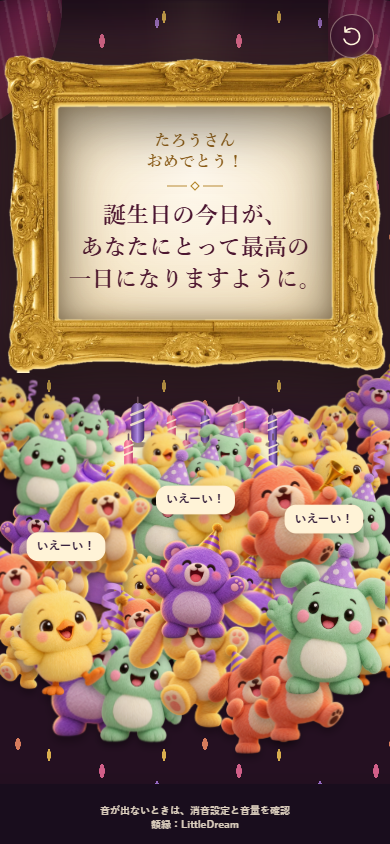
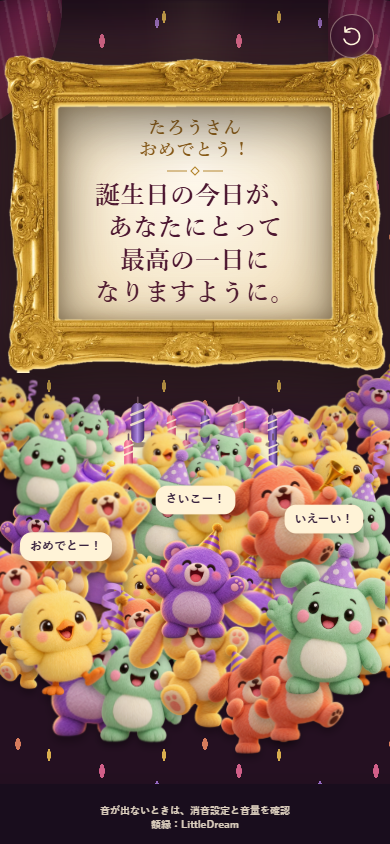
Make framed celebration wishes easier to read

diff --git a/dist/app.js b/dist/app.js
@@ -166,27 +166,29 @@ function completionMessage(name, template = CELEBRATION_TEMPLATE) {
 }
 function fitCelebrationMessage() {
   const el = ui['celebration-message'];
-  if (!el || el.offsetParent === null) return;
-  const MAX = 34, MIN = 15, LINE = 1.4;
-  const THREE_LINE_LENGTH = 29, TWO_LINE_READABLE_SIZE = 20;
-  el.style.lineHeight = String(LINE);
-  const fits = (size, lines) => {
-    el.style.fontSize = `${size}px`;
-    return el.scrollHeight <= Math.ceil(size * LINE * lines) + 1;
-  };
-  const largestFit = lines => {
-    let size = MAX;
-    while (size >= MIN && !fits(size, lines)) size -= 1;
-    return size;
-  };
-  const twoLineSize = largestFit(2);
-  // A tiny two-line long wish is harder to read than the same wish in three larger lines.
-  if (twoLineSize >= MIN && (Array.from(el.textContent).length < THREE_LINE_LENGTH || twoLineSize >= TWO_LINE_READABLE_SIZE)) {
-    el.style.fontSize = `${twoLineSize}px`;
-    return;
+  const windowEl = el?.parentElement;
+  if (!windowEl || el.offsetParent === null) return;
+  const MAX = 40, MIN = 18, LINE = 1.3;
+  const title = ui['celebration-title'];
+  title.style.fontSize = '';
+  const titleMax = parseFloat(getComputedStyle(title).fontSize);
+  const titleLines = title.textContent.includes('\n') ? 2 : 1;
+  for (let size = titleMax; size >= 14; size -= 1) {
+    title.style.fontSize = `${size}px`;
+    if (title.scrollHeight <= Math.ceil(parseFloat(getComputedStyle(title).lineHeight) * titleLines) + 1) break;
   }
-  const threeLineSize = largestFit(3);
-  el.style.fontSize = `${threeLineSize >= MIN ? Math.max(threeLineSize, twoLineSize) : Math.max(MIN, twoLineSize)}px`;
+  el.style.lineHeight = String(LINE);
+  const style = getComputedStyle(windowEl);
+  const padding = parseFloat(style.paddingTop) + parseFloat(style.paddingBottom);
+  const gap = parseFloat(style.rowGap) || 0;
+  const titleHeight = title.scrollHeight;
+  const ornamentHeight = parseFloat(getComputedStyle(windowEl.querySelector('.frame-ornament')).height);
+  const messageRoom = windowEl.clientHeight - padding - titleHeight - ornamentHeight - gap * 2 - 2;
+  for (let size = MAX; size >= MIN; size -= 1) {
+    el.style.fontSize = `${size}px`;
+    if (el.scrollHeight <= messageRoom) return;
+  }
+  el.style.fontSize = `${MIN}px`;
 }
 window.addEventListener('resize', fitCelebrationMessage);
 if (document.fonts?.ready) void document.fonts.ready.then(fitCelebrationMessage);

diff --git a/dist/style.css b/dist/style.css
@@ -246,3 +246,8 @@ body[data-scene="plush-prepare"]::before { background: radial-gradient(ellipse a
 .party[data-mic-state="preparing"] .scene-controls { align-items: center; max-width: none; }
 #fallback { width: min(100%, 320px); align-self: center; }
 .party[data-mic-state="preparing"] #reset { align-self: flex-start; }
+
+/* Use the paper's height for larger wishes while keeping every letter inside the frame. */
+.celebration-copy > .frame-shell .frame-window { gap: 4px; padding: 6px 4px; }
+.celebration-copy > .frame-shell .frame-window #celebration-title { flex-shrink: 0; font-size: clamp(16px, 4.7vw, 18px); line-height: 1.25; }
+.celebration-copy > .frame-shell .frame-paper #celebration-message { flex-shrink: 0; line-height: 1.3; }
